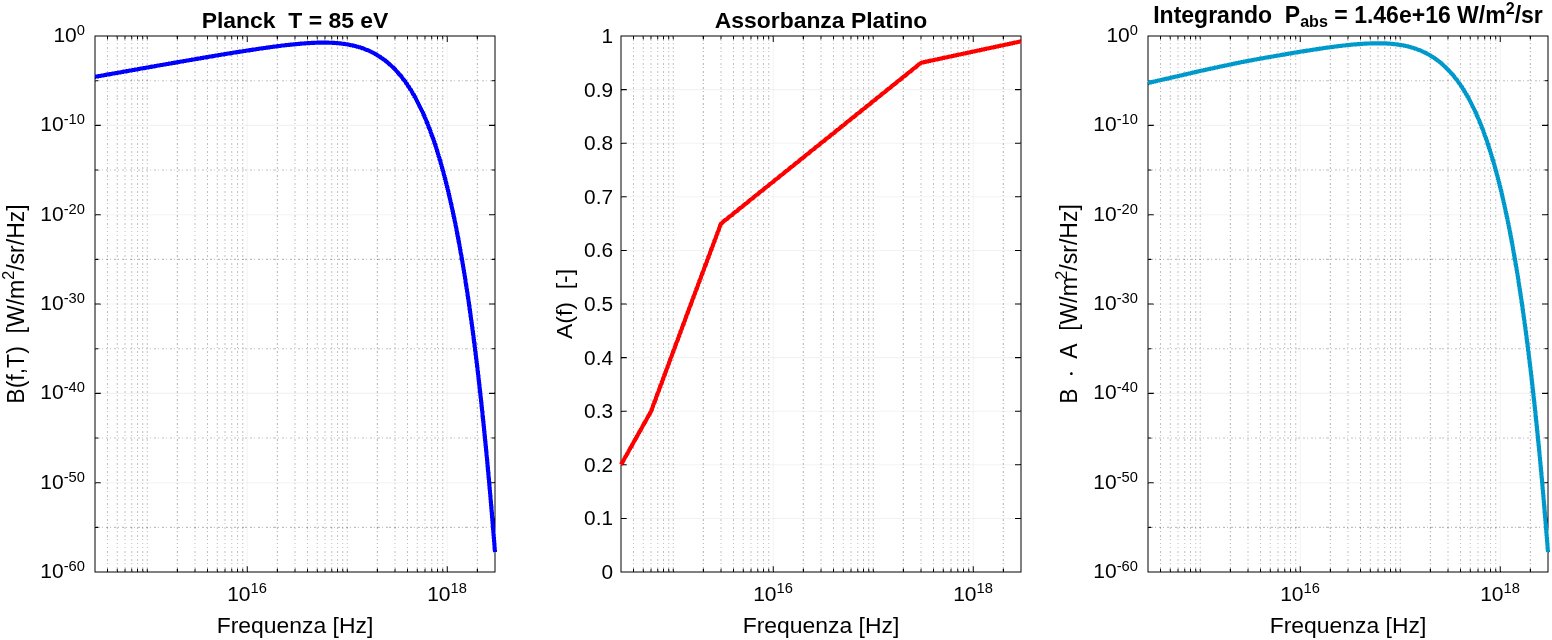
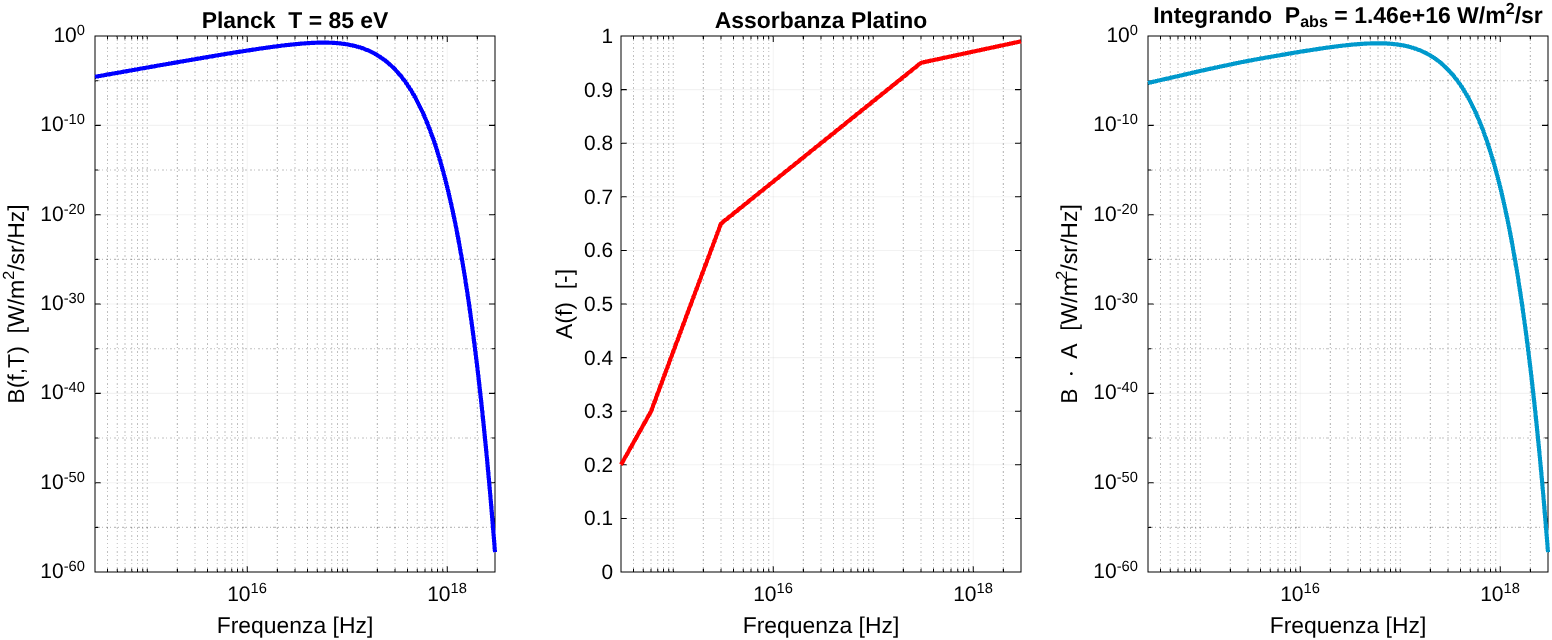
Aggiorna PNG blocco 3 e corregge xticks
- blocco3_risultati.png, blocco3_assorbimento.png: output MATLAB aggiornati
  con range T [10-300 eV], fasce divertore/SOL/pedestal, tau=0.8
- test_blocco3.m: fix xticks(dT_eV) -> xticks(T_eV)
- presentazione.pdf: ricompilato con nuove immagini

diff --git a/blocco_1_2_3/test_blocco3.m b/blocco_1_2_3/test_blocco3.m
@@ -121,8 +121,8 @@ ax = gca;
 set(ax, 'Color','w', 'XColor','k', 'YColor','k', 'GridColor',[0.8 0.8 0.8], ...
     'FontSize', 11);
 
-xticks(dT_eV);
-xticklabels(arrayfun(@(x) sprintf('%+d', x), dT_eV, 'UniformOutput', false));
+xticks(T_eV);
+xticklabels(arrayfun(@(x) sprintf('%d', x), T_eV, 'UniformOutput', false));
 
 legend('Location','northwest', 'FontSize', 10, 'TextColor','k', 'Color','w', 'EdgeColor','k');
 